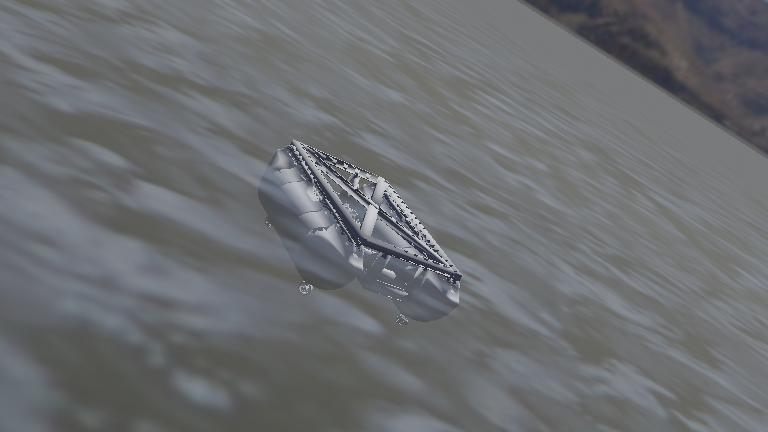
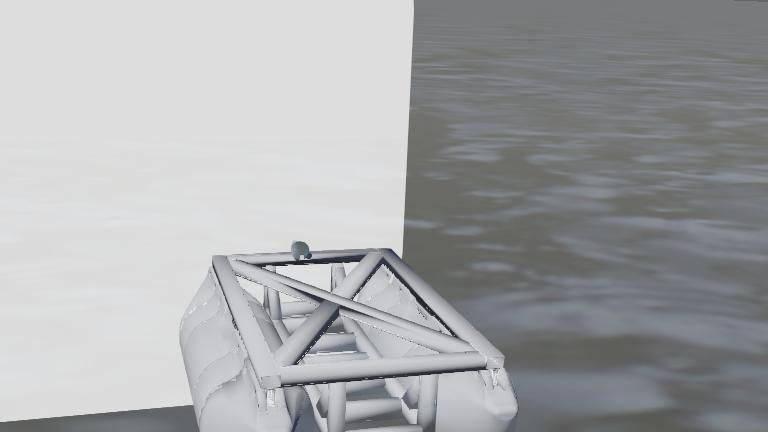
sidelining sim testing for now

diff --git a/simulation/controllers/neptune/neptune.py b/simulation/controllers/neptune/neptune.py
@@ -1,20 +1,22 @@
 """neptune controller."""
 import io
 import threading
-# You may need to import some classes of the controller module. Ex:
-#  from controller import Robot, Motor, DistanceSensor
-from controller import Robot, Motor, Supervisor, Keyboard
-import http.server
-import socketserver
+import math
+import struct
+
+from controller import Supervisor, Keyboard
 from flask import Flask, send_file
 from PIL import Image
-import struct
-import math
-robot = Supervisor() # Note this is supervise as in a node with control over the simulation, not the super class
+
+robot = Supervisor()
 node = robot.getSelf()
+
 keyboard = Keyboard()
+keyboard.enable(int(robot.getBasicTimeStep()))  
+
 timestep = int(robot.getBasicTimeStep())
 
+# Sensors
 front_cam_node = robot.getCamera("NeptuneFront")
 front_cam_node.enable(5)
 
@@ -26,63 +28,74 @@ gyro.enable(5)
 
 gps = robot.getGPS("gps")
 gps.enable(5)
-#ignore - the robot velocity is controlled manually instead of using motors
-#TODO in the future, we should move over to using motors.
-#lmotor = robot.getMotor("left_motor")
-#rmotor = robot.getMotor("right_motor")
-#lmotor.setPosition(float('inf'))
 
-#rmotor.setPosition(float('inf'))
+front_lidar = robot.getLidar("front_lidar")
+front_lidar.enable(5)
+front_lidar.enablePointCloud()
 
+# Motors
+l_t_motor = robot.getMotor("l_t_rot_motor")
+r_t_motor = robot.getMotor("r_t_rot_motor")
+l_b_motor = robot.getMotor("l_b_rot_motor")
+r_b_motor = robot.getMotor("r_b_rot_motor")
+
+all_motors = [l_t_motor, r_t_motor, l_b_motor, r_b_motor]
+
+for m in all_motors:
+    m.setPosition(float('inf'))  # velocity control mode
+    m.setVelocity(0)
+
+MOTOR_VELOCITY = 3.0  # rad/s — tuned for meter-scale boat with thrustConstants 50 0
 
 SIM_PORT = 8000
+app = Flask(__name__)
 
-app = Flask(__name__ )
-#flat multiplier since the cordinates are in huge amounts
-ROBOT_SPEED_MULTI = 50.0 
-MAX_ROBOT_SPEED = 20.0
-ROBOT_ACCEL = 1.0
 
-ROBOT_MAX_ROTATION_VEL = 0.2
-ROBOT_ROT_ACCEL = 0.01
 class RobotState():
-    left_motor = False
-    right_motor = False
-    speed = 0.0
+    top_l_motor = False
+    bottom_l_motor = False
+    top_r_motor = False
+    bottom_r_motor = False
     time = 0
-    rotation = 0.0
+
     def __init__(self):
         pass
+
     def tick(self):
         self.time += 1
-        if not self.right_motor and not self.left_motor:
-            self.speed = max(0, min(self.speed - ROBOT_ACCEL, MAX_ROBOT_SPEED))
-            self.rotation *= 0.95
-        elif self.left_motor and not self.right_motor:
-             self.speed = max(0, min(self.speed - ROBOT_ACCEL, MAX_ROBOT_SPEED))
-             self.rotation = min(self.rotation + ROBOT_ROT_ACCEL, ROBOT_MAX_ROTATION_VEL)
-        elif self.right_motor and not self.left_motor:
-             self.speed = max(0, min(self.speed - ROBOT_ACCEL, MAX_ROBOT_SPEED))
-             self.rotation = max(self.rotation - ROBOT_ROT_ACCEL, -ROBOT_MAX_ROTATION_VEL)
-        else:
-            self.speed = min(self.speed + ROBOT_ACCEL, MAX_ROBOT_SPEED)
-            self.rotation *= 0.95
-        
-    def getVel(self):
-        forward = node.getOrientation()[0:3]
-        x = forward[0] * self.speed* ROBOT_SPEED_MULTI
-        y = forward[1] * self.speed* ROBOT_SPEED_MULTI
-        z = forward[2] * self.speed * ROBOT_SPEED_MULTI
-        return [x, z, y, 0, 0, self.rotation]
-state = RobotState()  
[email redacted]("/toggle_left")
-def left():
-    state.left_motor = not state.left_motor
-    return "ok  "
[email redacted]("/toggle_right")
-def right():
-    state.right_motor = not state.right_motor
-    return "ok"
+
+    def apply_motors(self):
+        l_t_motor.setVelocity(MOTOR_VELOCITY if self.top_l_motor    else 0)
+        r_t_motor.setVelocity(MOTOR_VELOCITY if self.top_r_motor    else 0)
+        l_b_motor.setVelocity(MOTOR_VELOCITY if self.bottom_l_motor else 0)
+        r_b_motor.setVelocity(MOTOR_VELOCITY if self.bottom_r_motor else 0)
+
+
+state = RobotState()
+
+
+# --- Flask routes ---
+
[email redacted]("/motor/top_left/toggle", methods=["POST", "GET"])
+def toggle_top_left():
+    state.top_l_motor = not state.top_l_motor
+    return {"status": state.top_l_motor}
+
[email redacted]("/motor/top_right/toggle", methods=["POST", "GET"])
+def toggle_top_right():
+    state.top_r_motor = not state.top_r_motor
+    return {"status": state.top_r_motor}
+
[email redacted]("/motor/bottom_left/toggle", methods=["POST", "GET"])
+def toggle_bottom_left():
+    state.bottom_l_motor = not state.bottom_l_motor
+    return {"status": state.bottom_l_motor}
+
[email redacted]("/motor/bottom_right/toggle", methods=["POST", "GET"])
+def toggle_bottom_right():
+    state.bottom_r_motor = not state.bottom_r_motor
+    return {"status": state.bottom_r_motor}
+
 @app.route("/front_cam")
 def front_cam():
     img = front_cam_node.getImage()
@@ -93,36 +106,49 @@ def front_cam():
     img_bytes = io.BytesIO()
     pil_image.save(img_bytes, format='PNG')
     img_bytes.seek(0)
-    return send_file(
-        img_bytes,
-        mimetype='image/png',
-        download_name='image.png'
-    )
+    return send_file(img_bytes, mimetype='image/png', download_name='image.png')
+
 @app.route("/imu")
 def get_imu():
-    return imu.getRollPitchYaw()
-
+    return list(imu.getRollPitchYaw())
 
 @app.route("/gyro")
 def get_gyro():
-    return gyro.getValues()
+    return list(gyro.getValues())
 
 @app.route("/gps")
 def get_gps():
-    return gps.getValues()
-# @app.route("/front_lidar")
-# def front_lidar
-def start():
-    app.run(port = SIM_PORT)
-t = threading.Thread(target = start)
+    return list(gps.getValues())
+
[email redacted]("/front_lidar")
+def get_front_lidar():
+    return [
+        [a.x, a.y, a.z]
+        for a in front_lidar.getLayerPointCloud(0)
+        if math.isfinite(a.x) and math.isfinite(a.y) and math.isfinite(a.z)
+    ]
+
[email redacted]("/state")
+def get_state():
+    return {
+        "top_l_motor":    state.top_l_motor,
+        "top_r_motor":    state.top_r_motor,
+        "bottom_l_motor": state.bottom_l_motor,
+        "bottom_r_motor": state.bottom_r_motor,
+        "time":           state.time,
+        "gps":            list(gps.getValues()),
+    }
+
+
+def start_flask():
+    app.run(port=SIM_PORT)
+
+t = threading.Thread(target=start_flask)
 t.daemon = True
 t.start()
 
-print("abc")
+# --- Main simulation loop ---
 while robot.step(timestep) != -1:
     state.tick()
-    node.setVelocity(state.getVel())
+    state.apply_motors()
     key = keyboard.getKey()
-    #rmotor.setVelocity(10)
-    #lmotor.setVelocity(10)
-